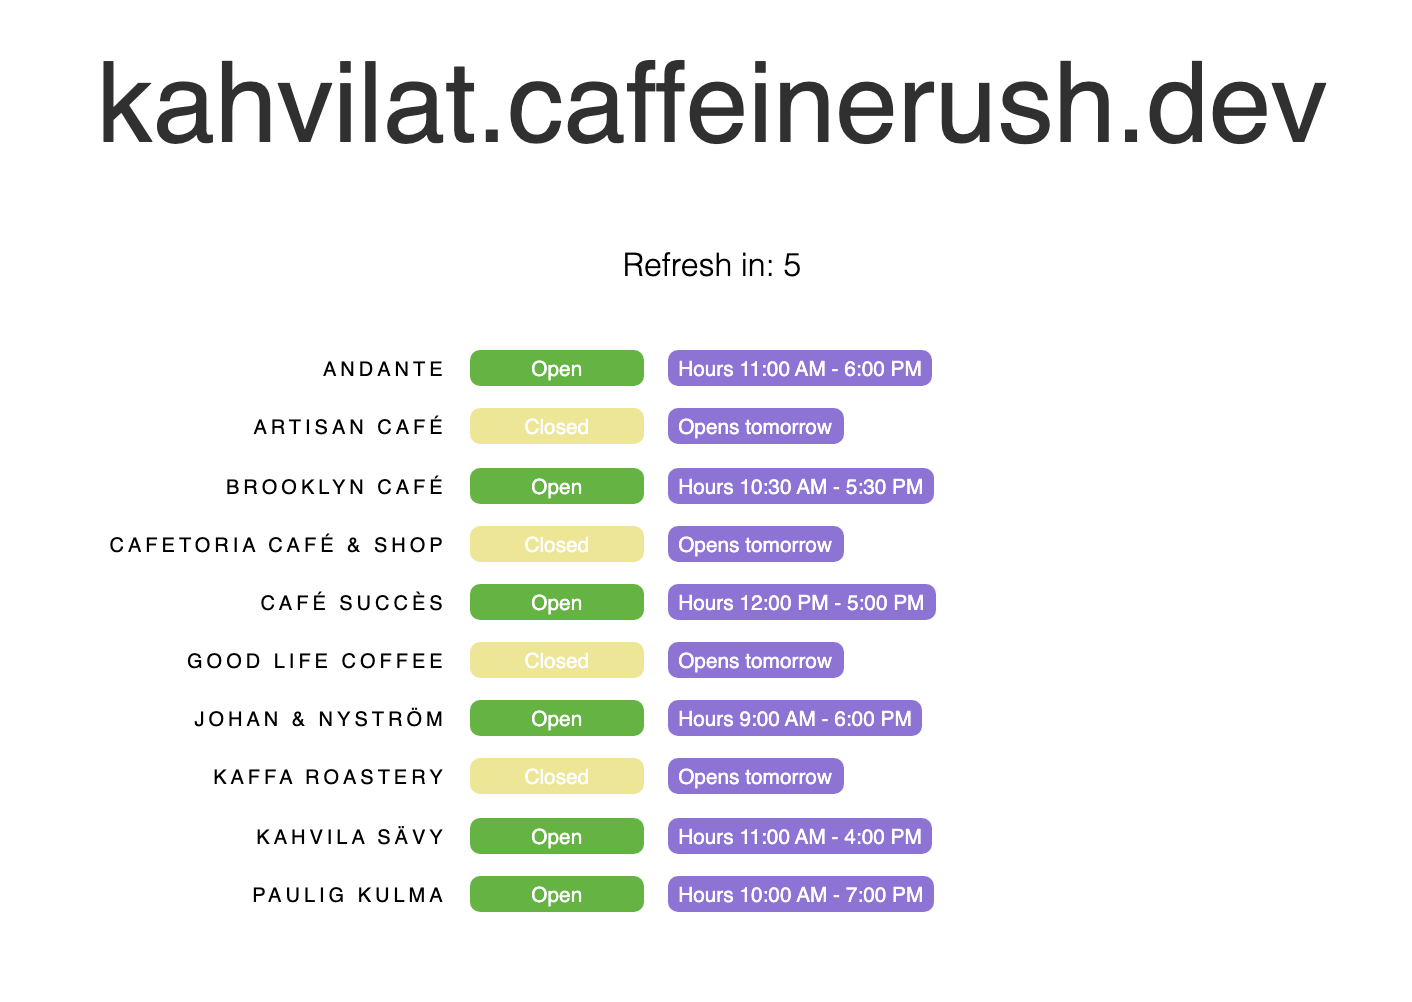
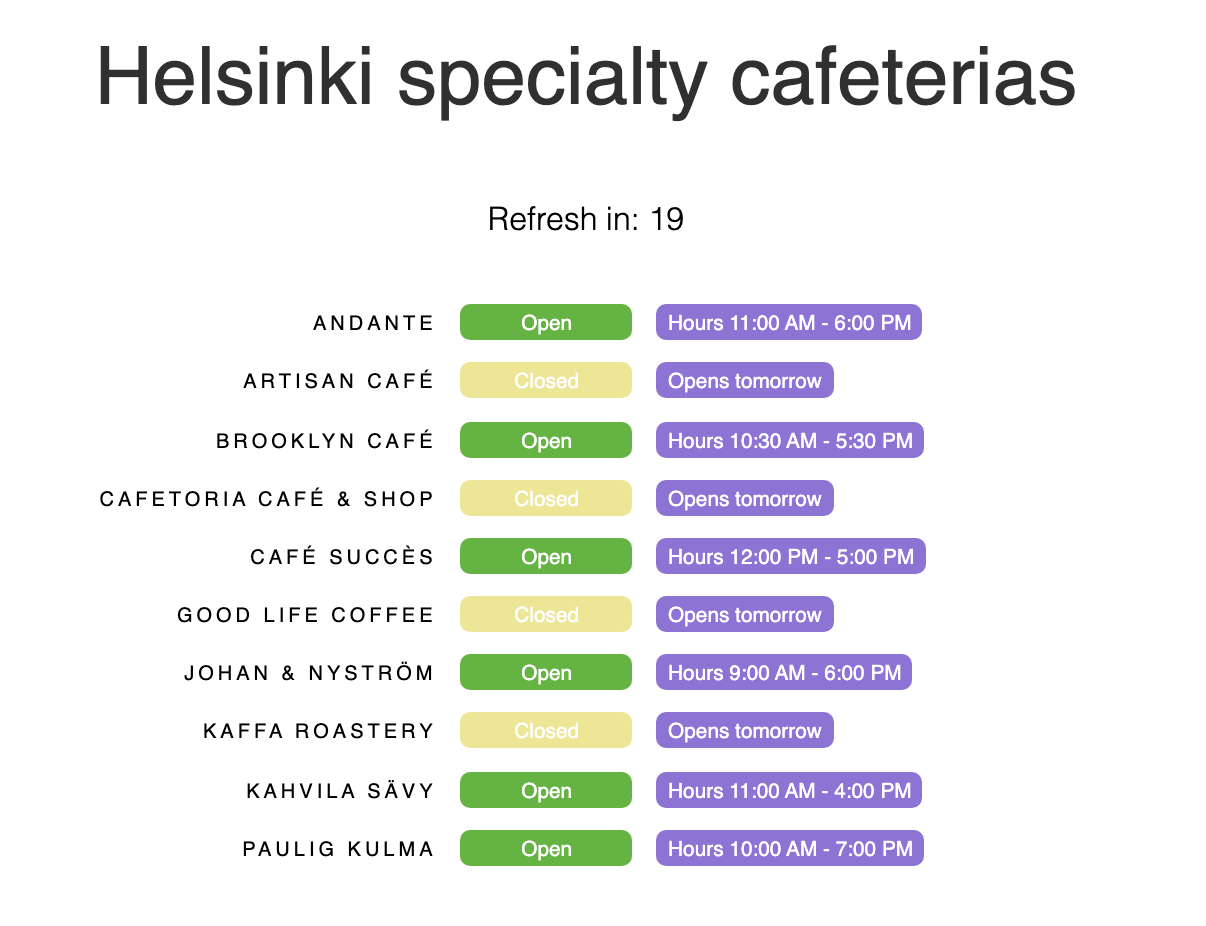
Update site title

Changed region(s): [[0.092, 0.3024, 0.767, 0.9374], [0.0614, 0.0302, 0.9511, 0.1512], [0.3988, 0.2117, 0.5829, 0.2721]]

diff --git a/frontend/resources/public/css/style.css b/frontend/resources/public/css/style.css
@@ -21,7 +21,7 @@ div.container {
 h1.title {
   color: #303030;
   font-family: sans-serif;
-  font-size: 3.5rem;
+  font-size: 2.5rem;
   font-weight: 400;
   margin-bottom: 2.5rem;
 }
